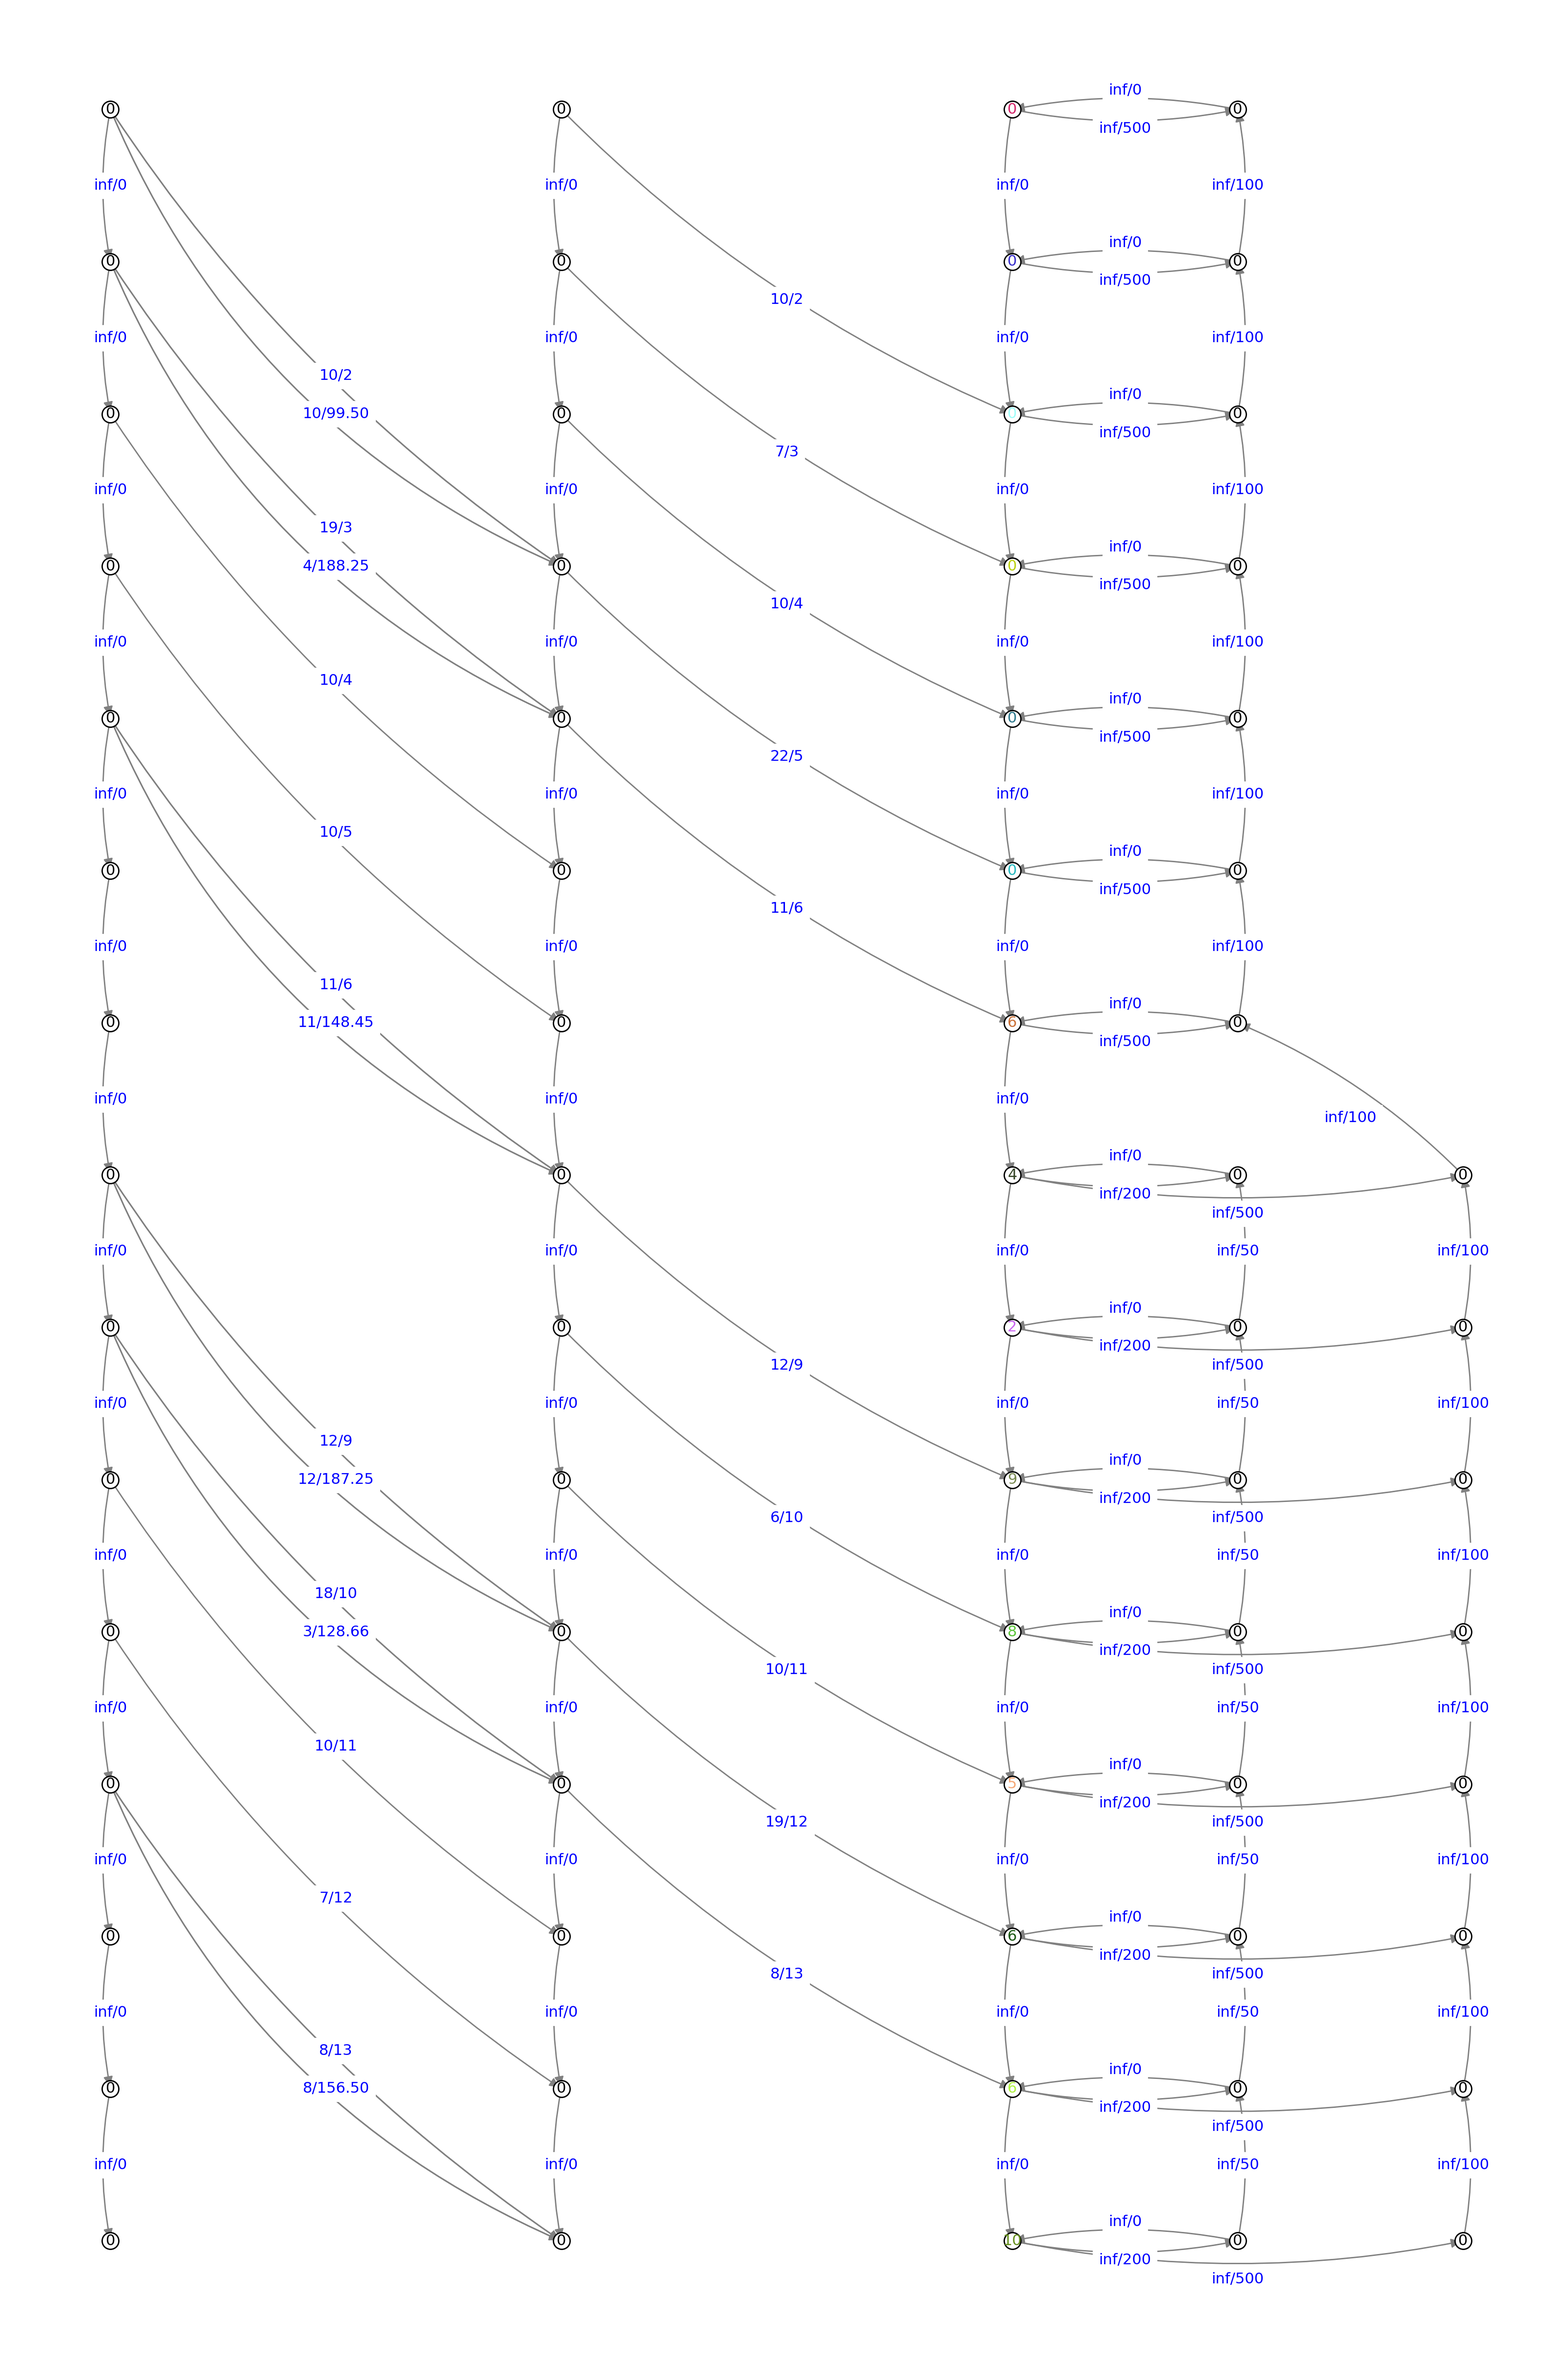
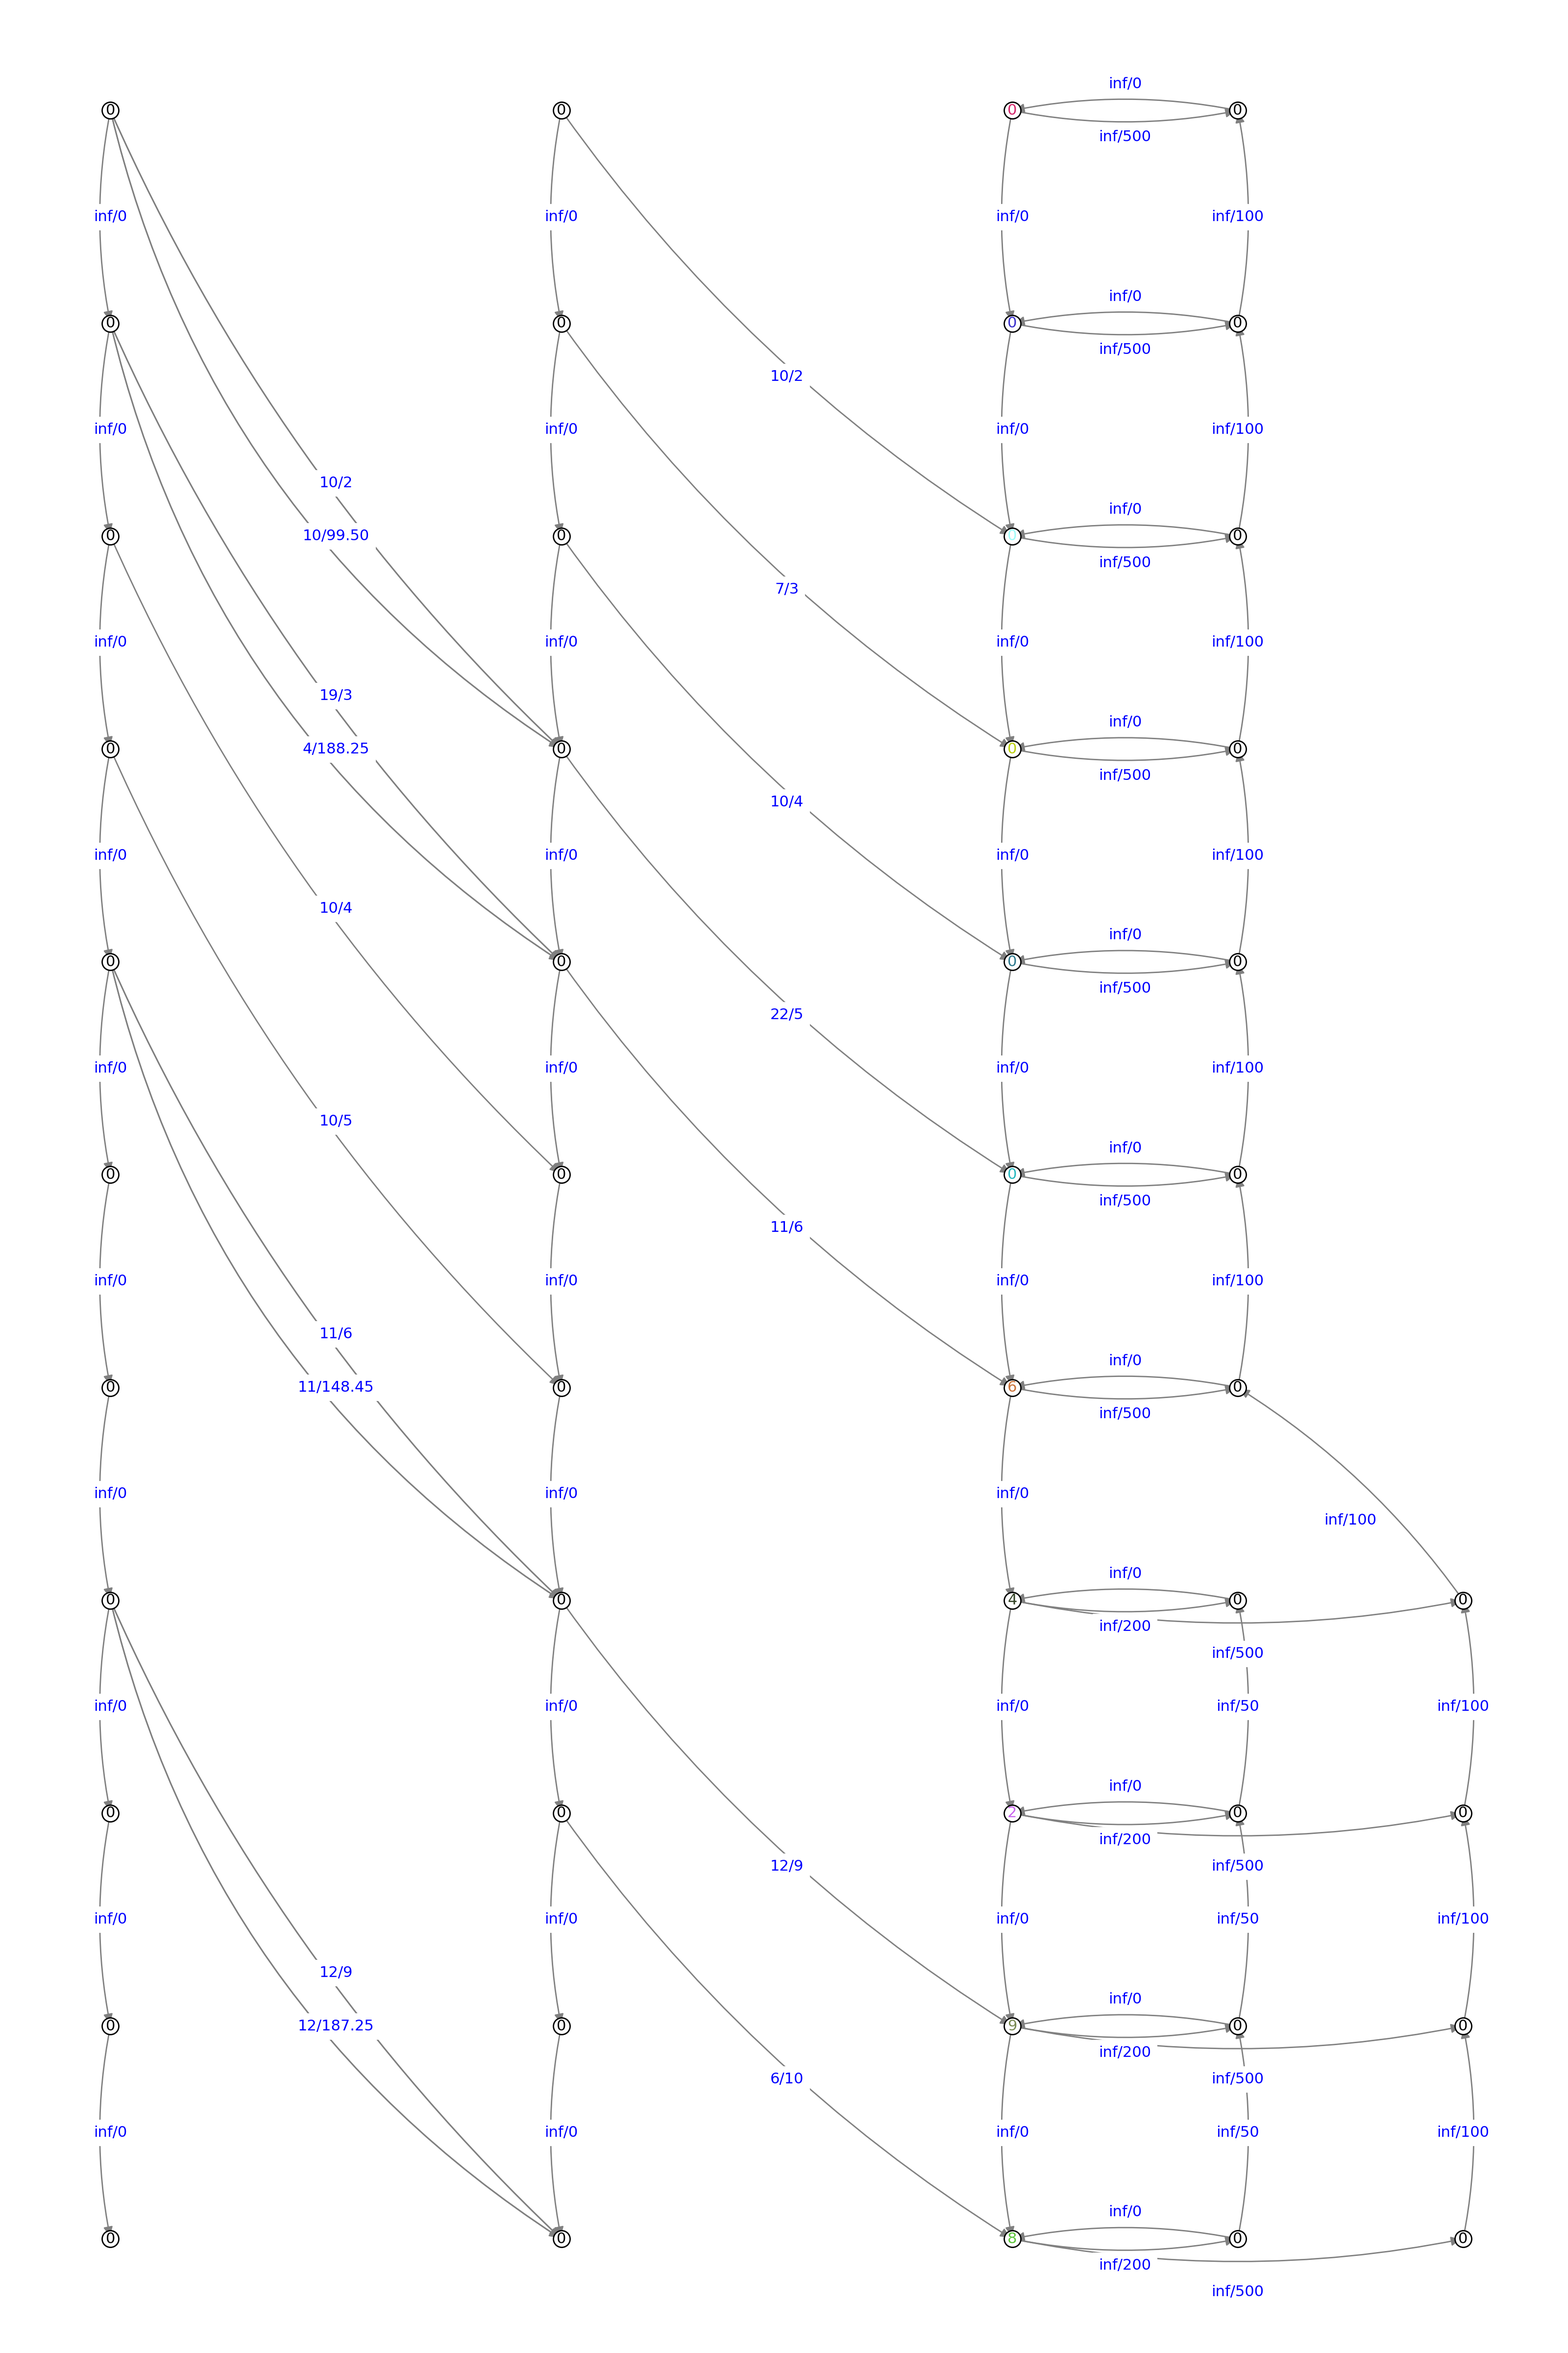
Cutoff network visualization earlier

diff --git a/src/maheu_group_project/heuristics/flow/visualize.py b/src/maheu_group_project/heuristics/flow/visualize.py
@@ -10,7 +10,7 @@ from maheu_group_project.heuristics.flow.types import dealership_to_commodity_gr
 from maheu_group_project.solution.encoding import Location, LocationType
 
 FOR_REPORT = True
-CUTOFF_DATE = datetime.date(2025, 6, 16)
+CUTOFF_DATE = datetime.date(2025, 6, 12)
 
 
 def visualize_flow_network(flow_network: MultiDiGraph, locations: list[Location],
@@ -137,7 +137,8 @@ def visualize_flow_network(flow_network: MultiDiGraph, locations: list[Location]
 
         # We annotate the date to the left of PLANT nodes
         if node.location.type == LocationType.PLANT:
-            ax.text(x - 0.25 * scale, y, node.day.strftime("%Y-%m-%d"), fontsize=11, color='black', ha='right', va='center')
+            ax.text(x - 0.25 * scale, y, node.day.strftime("%Y-%m-%d"), fontsize=11, color='black', ha='right',
+                    va='center')
 
     # Draw all edges, using curvature to distinguish parallel edges
     for u, v in flow_network.edges():
